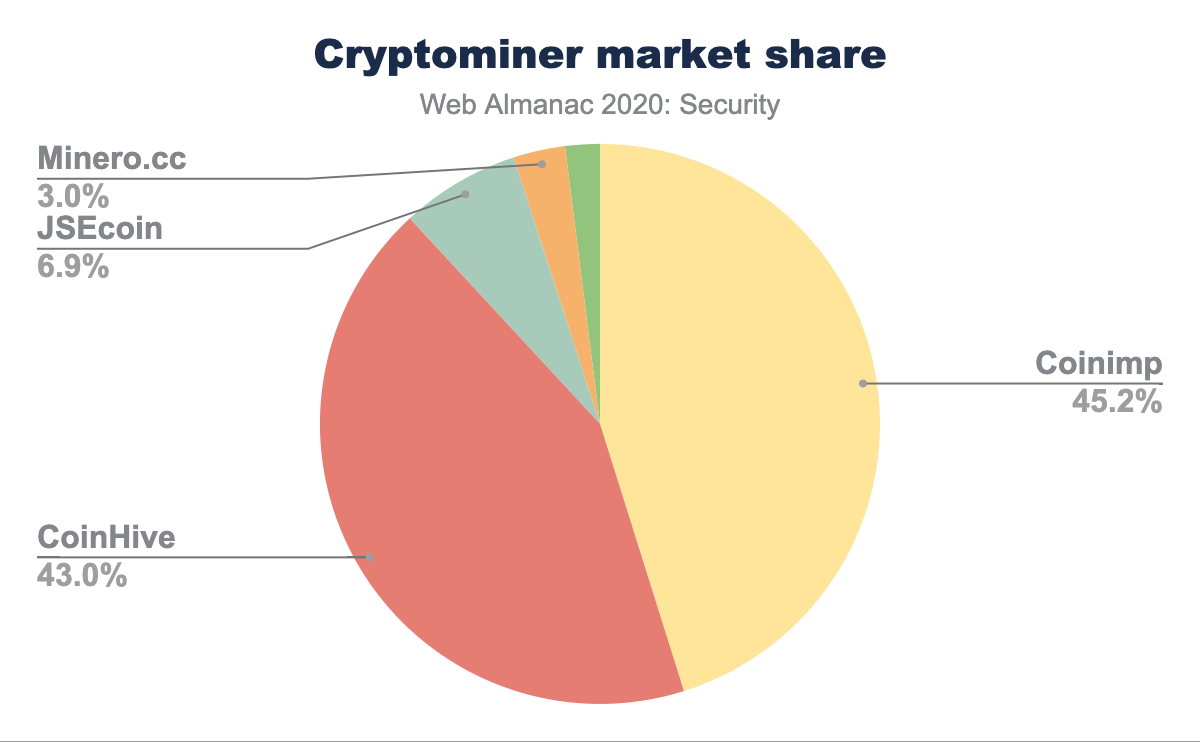
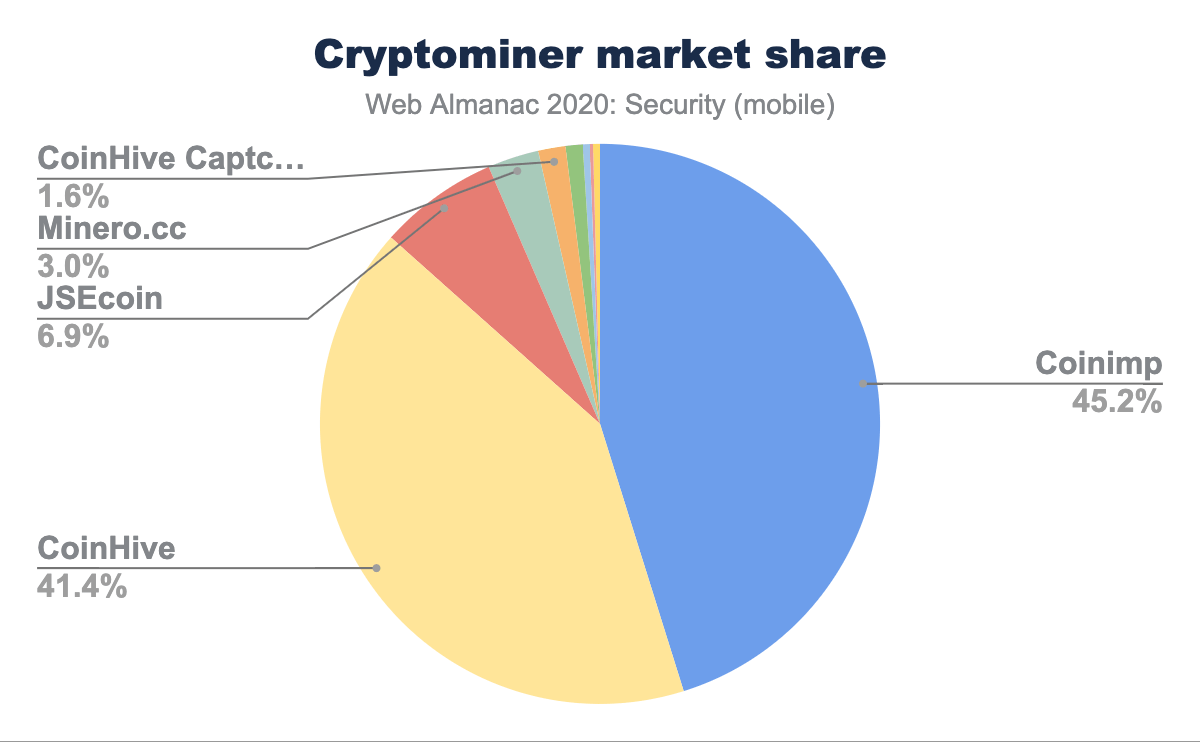
More figure updates

Changed region(s): [[0.0308, 0.186, 0.74, 0.9609], [0.3083, 0.124, 0.7092, 0.155]]

diff --git a/src/content/en/2020/security.md b/src/content/en/2020/security.md
@@ -867,8 +867,8 @@ A very large part of the Web is built with third-party components, at different 
 ### WordPress
 
 {{ figure_markup(
-  image="security-wordpress-version-evolution-2019-2020.png",
-  caption="WordPress version evolution (2019-2020).",
+  image="security-wordpress-version-evolution.png",
+  caption="WordPress version evolution.",
   description="Stacked bar chart showing the evolution of the versions of WordPress installations from November 2019 until August 2020 for the actively maintained branches of wordpress (4.9, 5.1, 5.2, 5.3, 5.4 and 5.5). In general the chart shows that most installations (approximately 75%) keep updating throughout the year and are now on the latest versions",
   chart_url="https://docs.google.com/spreadsheets/d/e/2PACX-1vTb4PkXuhnxNc-X_Jovx0970pV22ucCnNloa2g8KPMLJmp39E62oSE4XvBlAVSGL0oEEHZa71_bgsV4/pubchart?oid=2139119698&format=interactive",
   sheets_gid="640505800",
@@ -937,15 +937,15 @@ The figure above shows the number of websites utilizing cryptomining in the last
 
 {# TODO Nurullah: get avg use time. #}
 
-In the next figure, we show the market share of cryptominer on the web based on October's dataset. Coinimp is the most popular provider with a 45.2% market share. We found that all the most popular cryptominers are based on WebAssembly. Note that there are also JavaScript libraries to mine on the web, but they are not powerful like solutions based on WebAssembly. Our other result shows that half of the websites with cryptominer utilize a cryptomining component of discontinued service providers (such as [CoinHive](https://blog.avast.com/coinhive-shuts-down) and [JSEcoin](https://twitter.com/jsecoin/status/1247436272869814272)), which means that mining will be not happening in practice.
+In the next figure, we show the market share of cryptominer on the web based on August's dataset. Coinimp is the most popular provider with a 45.2% market share. We found that all the most popular cryptominers are based on WebAssembly. Note that there are also JavaScript libraries to mine on the web, but they are not powerful like solutions based on WebAssembly. Our other result shows that half of the websites with cryptominer utilize a cryptomining component of discontinued service providers (such as [CoinHive](https://blog.avast.com/coinhive-shuts-down) and [JSEcoin](https://twitter.com/jsecoin/status/1247436272869814272)), which means that mining will be not happening in practice.
 
 {# TODO Cryptomining market share image - leave it out? one of the main operators has been shut down for a long time #}
 
 {{ figure_markup(
   image="security-cryptominer-market-share.png",
-  caption="Cryptominer market share.",
-  description="Pie chart showing Coinimp has 45.2% of market share, CoinHive has 43.0%, JSEcoin has 6.9%, Minero.cc has 3.0% and others have 2.0.",
-  chart_url="https://docs.google.com/spreadsheets/d/e/2PACX-1vTb4PkXuhnxNc-X_Jovx0970pV22ucCnNloa2g8KPMLJmp39E62oSE4XvBlAVSGL0oEEHZa71_bgsV4/pubchart?oid=691707301&amp;format=interactive",
+  caption="Cryptominer market share (mobile).",
+  description="Pie chart showing Coinimp has 45.2.3% of market share, CoinHive has 41.4%, JSEcoin has 6.9%, Minero.cc has 3.0% and others have 3.55%.",
+  chart_url="https://docs.google.com/spreadsheets/d/e/2PACX-1vTb4PkXuhnxNc-X_Jovx0970pV22ucCnNloa2g8KPMLJmp39E62oSE4XvBlAVSGL0oEEHZa71_bgsV4/pubchart?oid=691707301&format=interactive",
   sheets_gid="445442267",
   sql_file="cryptominer_share.sql"
 ) }}
